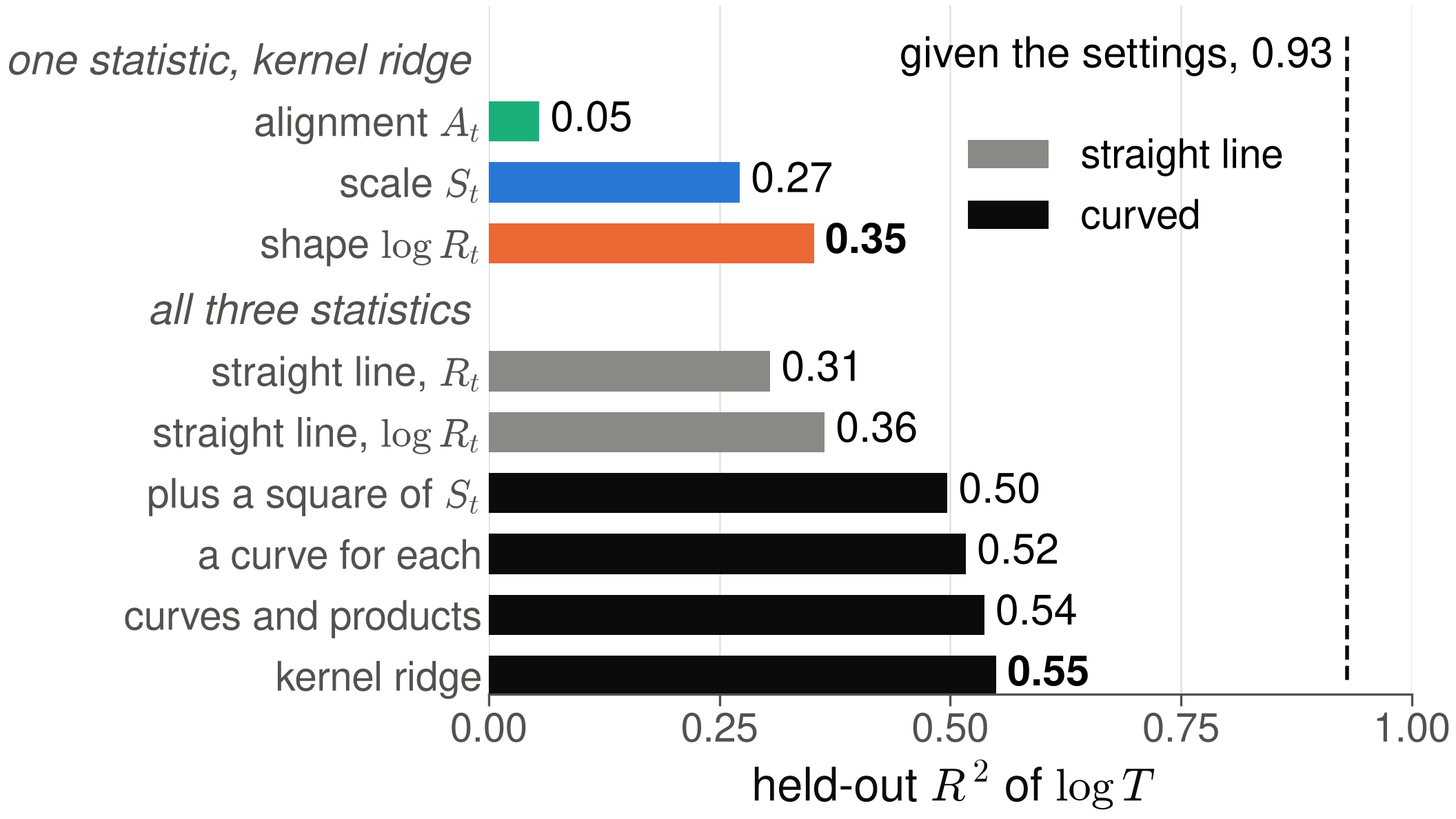
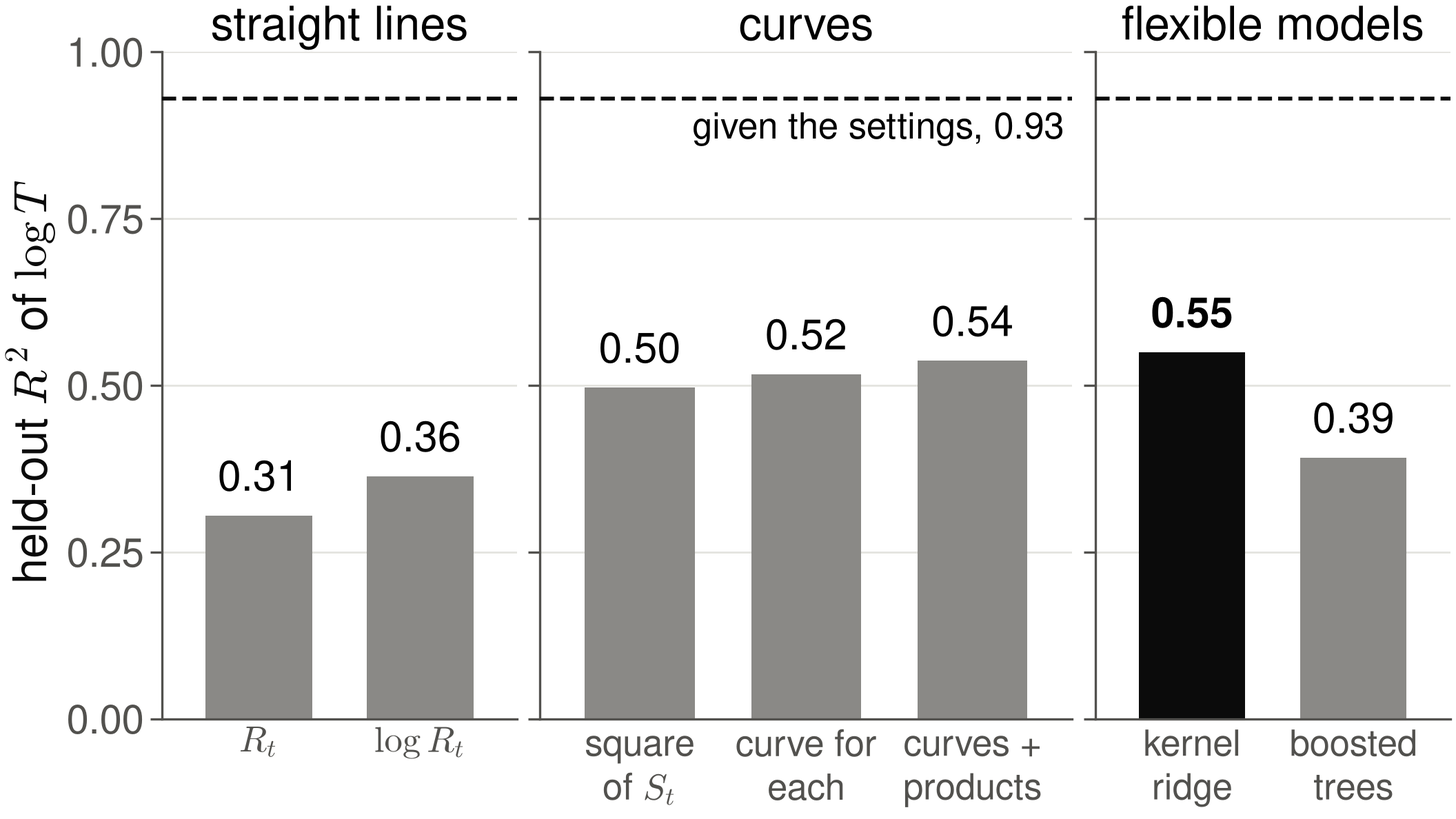
Explain the results slides through analogies and add a slide on curves
Zain's part of the talk, slides 16, 17 and 19 to 21, now opens each result
with a picture before the number. Tier 1 compares a threshold to the boiling
point of water, and the placebo to a stuck thermometer. Slide 17 compares width
to altitude, which moves the boiling point. Tier 3 compares an early forecast
to guessing a marathon time from the first few kilometres, and kernel ridge to
pricing a house from similar houses.

The speaker notes, the text beside each figure and the closing lines of these
slides use the same plain wording. Slide 19 now says what R squared measures.
The points cut from the spoken script stay in the answers under "If asked".

The new slide 21 shows what a curve and a product mean, with a sketch drawn
by make_figures.py. The model comparison figure on slide 20 was redrawn.
script_zain.md runs about 2:07, and script.md was regenerated from the deck.

diff --git a/presentation/make_figures.py b/presentation/make_figures.py
@@ -1,4 +1,4 @@
-"""Slide versions of the report figures E2, E4, E5, E7, E8 and E19, the placebo boxes E3, R_t on two scales, and the Tier 3 models.
+"""Slide versions of the report figures E2, E4, E5, E7, E8 and E19, the placebo boxes E3, R_t on two scales, and the Tier 3 models and curve sketch.
 
 The report figures come from the scripts in report_v2/code. They are drawn for an A4 page, so their
 type is too small on a projector. This script draws each one again for its place in slides.qmd.
@@ -338,15 +338,17 @@ def e10_log_r():
 
 
 
-# The ladder of models of model_fitting/4_nonlinear_exploration.ipynb, Part 3: held-out R^2 of log T
-# with one cell held out at a time, on the same 355 runs as E10. Each model reads all three
-# statistics. The report has no macro for these, so they are copied from the saved output of that
-# notebook (cell 20, three decimals). Its kernel ridge, 0.550, matches E10.json (0.550). The settings
-# line is the trees on alpha, width and weight decay of Part 7 (cell 39).
-LADDER_HELD_OUT_CELLS = {r'straight line, $R_t$': '0.305', r'straight line, $\log R_t$': '0.364',
-                         'plus a square of $S_t$': '0.497', 'a curve for each': '0.517',
-                         'curves and products': '0.537', 'kernel ridge': '0.550'}
-STRAIGHT_LINES = (r'straight line, $R_t$', r'straight line, $\log R_t$')
+# The models of model_fitting/4_nonlinear_exploration.ipynb on the same 355 runs as E10: held-out R^2 of
+# log T with one cell held out at a time, each model reading S_t, log R_t and A_t at t*. The report has
+# no macro for these, so they are copied, to three decimals, from the saved output of the notebook:
+# Part 3 (cell 20) for the ladder and Part 7 (cell 39) for the trees. Its kernel ridge, 0.550,
+# matches E10.json (0.550). The settings line is the trees on alpha, width and weight decay (cell 39).
+# Each panel is one kind of model, as (label, R^2).
+MODEL_PANELS = [
+    ('straight lines', [('$R_t$', '0.305'), (r'$\log R_t$', '0.364')]),
+    ('curves', [('square\nof $S_t$', '0.497'), ('curve for\neach', '0.517'), ('curves +\nproducts', '0.537')]),
+    ('flexible models', [('kernel\nridge', '0.550'), ('boosted\ntrees', '0.392')]),
+]
 SETTINGS_HELD_OUT_CELLS = 0.930
 
 
@@ -357,50 +359,59 @@ def two_places(value):
 
 
 def tier3_models():
-    """Tier 3 model slide: which statistic predicts best, and which model fits best.
+    """Tier 3 models slide: held-out R^2 of each model on all three statistics, one panel per kind.
 
-    The top group is kernel ridge on each statistic alone, from E10.json. The bottom group is the
-    ladder of notebook 4 on all three statistics, with the straight lines in grey and the curved
-    models in black. The dashed line is the trees given the settings.
+    The panels hold the straight lines, the curves and the flexible models of notebook 4. The best
+    model has a black bar and the rest are grey. The dashed line is the trees given the settings.
     """
-    subsets = C.read_json('E10')['subsets']
-    groups = [('one statistic, kernel ridge',
-               [(STAT_NAME['A'], subsets['A']['R2'], C.STAT_COLOUR['A']),
-                (STAT_NAME['S'], subsets['S']['R2'], C.STAT_COLOUR['S']),
-                (r'shape $\log R_t$', subsets['log R']['R2'], C.STAT_COLOUR['R'])]),
-              ('all three statistics',
-               [(name, r2, NEUTRAL if name in STRAIGHT_LINES else C.TEXT)
-                for name, r2 in LADDER_HELD_OUT_CELLS.items()])]
-    fig, ax = plt.subplots(figsize=COLUMN, layout='constrained')
-    y, ticks, labels = -0.5, [], []
-    for title, bars in groups:
-        y += 0.5
-        ax.text(-0.02, y, title, ha='right', va='center', color=C.MUTED, style='italic',
-                transform=ax.get_yaxis_transform())
-        best = max(float(r2) for _, r2, _ in bars)
-        for label, r2, colour in bars:
-            y += 1
-            ax.barh(y, float(r2), height=0.66, color=colour, zorder=2)
-            ax.text(float(r2) + 0.012, y, two_places(r2) if isinstance(r2, str) else f'{r2:.2f}', va='center',
+    best = max(float(r2) for _, bars in MODEL_PANELS for _, r2 in bars)
+    fig, axes = plt.subplots(1, len(MODEL_PANELS), figsize=COLUMN, layout='constrained', sharey=True,
+                             gridspec_kw={'width_ratios': [len(bars) for _, bars in MODEL_PANELS]})
+    for ax, (title, bars) in zip(axes, MODEL_PANELS):
+        for i, (label, r2) in enumerate(bars):
+            ax.bar(i, float(r2), width=0.66, color=C.TEXT if float(r2) == best else NEUTRAL, zorder=2)
+            ax.text(i, float(r2) + 0.02, two_places(r2), ha='center', va='bottom',
                     fontweight='bold' if float(r2) == best else 'normal')
-            ticks.append(y)
-            labels.append(label)
-        y += 0.6
-    ax.vlines(SETTINGS_HELD_OUT_CELLS, -0.4, y - 0.5, color=C.TEXT, ls='--', lw=2, zorder=3)
-    ax.text(SETTINGS_HELD_OUT_CELLS - 0.015, -0.4, f'given the settings, {SETTINGS_HELD_OUT_CELLS:.2f}',
-            ha='right', va='top')
-    ax.barh(-5, 0, color=NEUTRAL, label='straight line')
-    ax.barh(-5, 0, color=C.TEXT, label='curved')
-    ax.legend(loc='upper right', bbox_to_anchor=(0.9, 0.86), frameon=False)
-    ax.set_yticks(ticks, labels)
-    ax.tick_params(axis='y', length=0)
-    ax.set_ylim(y - 0.3, -0.9)
-    ax.set_xlim(0, 1)
-    ax.set_xticks([0, 0.25, 0.5, 0.75, 1])
-    ax.set_xlabel(r'held-out $R^2$ of $\log T$')
-    ax.grid(axis='y', visible=False)
-    ax.spines['left'].set_visible(False)
+        ax.axhline(SETTINGS_HELD_OUT_CELLS, color=C.TEXT, ls='--', lw=2, zorder=3)
+        ax.set_xticks(range(len(bars)), [label for label, _ in bars], fontsize=19)
+        ax.tick_params(axis='x', length=0)
+        ax.set_xlim(-0.6, len(bars) - 0.4)
+        ax.set_title(title, loc='center')
+        ax.grid(axis='x', visible=False)
+    axes[0].set_ylim(0, 1)
+    axes[0].set_yticks([0, 0.25, 0.5, 0.75, 1])
+    axes[0].set_ylabel(r'held-out $R^2$ of $\log T$')
+    axes[1].text(len(MODEL_PANELS[1][1]) - 0.45, SETTINGS_HELD_OUT_CELLS - 0.02,
+                  f'given the settings, {SETTINGS_HELD_OUT_CELLS:.2f}', ha='right', va='top', fontsize=19)
     save(fig, 'tier3_models')
+
+
+def tier3_curve():
+    """Tier 3 formula slide: a sketch of a straight line, a curve and a product, with no data.
+
+    Each panel plots predicted log T against a standardised statistic z. Along a straight line the
+    slope is beta everywhere. Along a curve the slope f'(z) changes with z. With a product term the
+    slope in z_S is beta_S + gamma z_R, so the line for each value of z_R has its own slope. The
+    numbers are made up, so the axes carry no ticks.
+    """
+    z = np.linspace(-1.6, 1.6, 100)
+    fig, axes = plt.subplots(1, 3, figsize=COLUMN, layout='constrained', sharey=True)
+    axes[0].plot(z, 0.2 - 0.55 * z, color=NEUTRAL, lw=4)
+    axes[1].plot(z, 0.2 - 0.55 * z + 0.45 * z ** 2, color=C.TEXT, lw=4)
+    for z_r, colour in ((-1, NEUTRAL), (1, C.STAT_COLOUR['R'])):
+        axes[2].plot(z, 0.2 + (-0.2 - 0.5 * z_r) * z, color=colour, lw=4, label=f'$z_R = {z_r:+d}$')
+    axes[2].legend(loc='upper center', frameon=False, fontsize=19, handlelength=1.2)
+    notes = (r'slope $\beta$', r"slope $f\,'(z)$", r'slope $\beta_S + \gamma z_R$')
+    for ax, title, note, xlabel in zip(axes, ('straight line', 'curve', 'product'), notes, ('$z$', '$z$', '$z_S$')):
+        ax.set_title(title)
+        ax.text(0, -1.5, note, ha='center', va='top', fontsize=21)
+        ax.set_xticks([])
+        ax.set_yticks([])
+        ax.set_xlabel(xlabel)
+        ax.grid(visible=False)
+    axes[0].set_ylabel(r'predicted $\log T$')
+    axes[0].set_ylim(-2.1, 2.6)
+    save(fig, 'tier3_curve')
 
 
 def e19():
@@ -478,6 +489,6 @@ def e19():
 
 
 if __name__ == '__main__':
-    for draw in (e2, e3, e4, e5, e7, e8, e10_log_r, tier3_models, e19):
+    for draw in (e2, e3, e4, e5, e7, e8, e10_log_r, tier3_models, tier3_curve, e19):
         draw()
         print('drew', draw.__name__)

diff --git a/presentation/script.md b/presentation/script.md
@@ -10,7 +10,7 @@ Each slide gives its number in the browser, its budget and the running total. "S
 | 2 | 5 to 9 | 2:15 |
 | 3 | 10 to 14 | 1:50 |
 | 4 | 15 to 18 | 2:00 |
-| 5 | 19 to 25 | 2:50 |
+| 5 | 19 to 26 | 3:15 |
 
 ## Turn 1 (1:20)
 
@@ -249,12 +249,14 @@ Each slide gives its number in the browser, its budget and the running total. "S
 
 **Say**
 
-- If grokking happens when a statistic reaches a threshold, the statistic should take nearly the same value at every run's grokking step.
-- A statistic that barely moves would pass that check too.
-- So we read each run twice, at its own grokking step and at the grokking step of another run, and the second reading is a placebo.
-- A real threshold spreads out at the wrong step, and the SD ratio says by how much.
-- Shape spreads the most, by 1.71, and scale by 1.29, and no shuffle gave either a spread as small as the true one.
-- Alignment spreads by only 1.09, which is close to one.
+- Okay, so first we test whether grokking happens when a statistic hits a fixed value.
+- Think of water, which boils at 100 degrees in any pot.
+- If grokking had a boiling point, the statistic would read the same in every run at the moment that run groks.
+- But a thermometer stuck on one number also reads the same every time.
+- So we also read each run at the step where some other run grokked.
+- If the statistic is a real boiling point, those readings should be much more spread out.
+- Shape spreads out the most, 1.71 times.
+- Scale spreads 1.29 times, and alignment hardly at all.
 
 **Point at**
 
@@ -273,10 +275,12 @@ Each slide gives its number in the browser, its budget and the running total. "S
 
 **Say**
 
-- That tie only holds at a fixed width.
-- Each dot is one run at its grokking step, with width 100 on top and alpha 1 across widths below.
-- Across widths no statistic takes the same value at grokking, and wider networks grok with much less change of shape, yet later.
-- So shape matters more than scale, but shape alone does not set the time.
+- But water only boils at 100 degrees at sea level.
+- Up a mountain it boils at a lower temperature.
+- Width acts like the mountain.
+- Once we change the width, no statistic has the same value at grokking.
+- Wide networks grok with much less change of shape, and yet they grok later.
+- So shape alone does not decide when a network groks.
 
 **If asked**
 
@@ -305,7 +309,7 @@ Each slide gives its number in the browser, its budget and the running total. "S
 - Both logarithms are centred at the middle of the grid, so a and b are the slopes there.
 - Wider networks memorise sooner, so the width effect is not a delay in fitting the training data.
 
-## Turn 5 (2:50)
+## Turn 5 (3:15)
 
 ### Slide 19. Tier 3: shape is the best single predictor, and scale adds what shape lacks (0:40, total 8:05)
 
@@ -313,13 +317,11 @@ Each slide gives its number in the browser, its budget and the running total. "S
 
 **Say**
 
-- Last, which statistic, read early, tells us when a run will grok?
-- We read the statistics at step 2,430, before any run groks, and predict the grokking time on cells the model has never seen.
-- Alignment explains almost nothing, and shape explains the most.
-- Adding scale raises R squared from 0.35 to 0.51, so the clock is mixed.
-- We use the log of R, since with R as it is all three reach only 0.47.
-- In our grid we set the width, alpha and weight decay ourselves, so we know them exactly.
-- In a real model they are not clean measurements, since weight decay is only part of the regularisation, while the kernel can be measured in any network.
+- Can the statistics still forecast when a run will grok?
+- It is like guessing a runner's marathon time from their first few kilometres.
+- We read them at step 2,430, before any run groks, and predict settings the model has never seen.
+- Alignment explains almost nothing.
+- Shape alone explains about a third, and adding scale takes it to a half.
 
 **If asked**
 
@@ -336,31 +338,50 @@ Each slide gives its number in the browser, its budget and the running total. "S
 - The kernel ridge regression uses a Gaussian kernel, and whole cells are held out because the seeds of a cell are close copies.
 - We do not claim that shape and scale interact, because that analysis was cut from the report.
 
-### Slide 20. Tier 3: kernel ridge on all three statistics is the best model (0:35, total 8:40)
+### Slide 20. Tier 3: a curve beats a straight line, and kernel ridge fits best (0:30, total 8:35)
 
-*Message:* a curved model fits best, and a straight line with two bends gets most of the way.
+*Message:* a curve predicts much better than a straight line, and the most flexible models add little on top.
 
 **Say**
 
-- Which model fits best? We climbed a ladder, from straight lines up to kernel ridge.
-- A straight line explains 0.31, and the log of shape lifts it to 0.36.
-- A square of scale lifts it to 0.50, and kernel ridge on all three reaches 0.55, the best we found.
-- So this equation gets most of the way, with two bends: the log of shape and a square of scale.
-- The settings still reach 0.93, but any network's kernel can be measured.
+- A straight line through the three statistics explains 0.36.
+- Letting it bend for scale, with a squared term, jumps it to 0.50.
+- Kernel ridge predicts a run from the runs most like it, like pricing a house from similar houses.
+- It does best, at 0.55.
 
 **Point at**
 
-- Grey bars are straight lines and black bars are curved models, and the dashed line is the trees given the settings.
+- The dashed line is boosted trees given width, alpha and weight decay, which a real network does not report.
 
 **If asked**
 
-- The ladder numbers come from model_fitting/4_nonlinear_exploration.ipynb, Part 3, on the same 355 runs as Tier 3, and its kernel ridge matches the report.
-- A curve for each statistic reaches 0.52, and adding the products of the statistics reaches 0.54, so interactions add little among runs that grok.
-- Each gain above 0.50 is about 0.02, which is close to our noise level.
+- The numbers come from model_fitting/4_nonlinear_exploration.ipynb, Parts 3 and 7, on the same 355 runs as the last slide, and its kernel ridge matches the report.
+- Boosted trees do well on other inputs: 0.74 on the 25 early readings of the statistics and 0.93 on the settings. The notebook reads the history as mostly a record of the settings.
+- On an unseen alpha, trees on the three statistics rank runs at a concordance of 0.70, better than any statistic alone.
+- Each gain above 0.50 is about 0.02, which is close to our noise level, and seed noise sets a ceiling of 0.96.
 - Without shape, kernel ridge falls from 0.55 to 0.23, so shape carries the most information.
-- The settings line is boosted trees on alpha, width and weight decay, and seed noise sets a ceiling of 0.96.
+- Kernel ridge fits $\log T$ minus its mean, with the sum over the training runs $i$, and its penalty and $\gamma$ are chosen by cross-validation over whole cells.
+- The trees are XGBoost on squared error, with depth 1 to 4 chosen on held-out training cells.
 
-### Slide 21. Tier 4: on MNIST, weight decay alone sets the time (0:35, total 9:15)
+### Slide 21. A curve changes the slope, and a product links two statistics (0:30, total 9:05)
+
+*Message:* a curve lets the slope of a statistic change along the way, a product lets one statistic set the slope of another, and the best simple formula is a straight line plus a square of scale.
+
+**Say**
+
+- A straight line says each step up in a statistic always moves the time by the same amount.
+- A curve lets that amount change, like a road that is steep and then flattens.
+- A product means how much scale matters depends on shape.
+- In our data that adds very little.
+
+**If asked**
+
+- The spline has 5 knots and degree 3, which gives 7 basis functions per statistic, and the weights $c_j$ are fitted by ridge regression.
+- The square is the simplest curve, since its slope $\beta + 2\beta' z$ changes in a straight line.
+- Shape enters on a log scale, so the straight line in $z_R$ is already a curve in $R_t$.
+- The betas are fitted by least squares on the training cells of each fold, and the notebook did not save them, so we quote only the form and its score.
+
+### Slide 22. Tier 4: on MNIST, weight decay alone sets the time (0:35, total 9:40)
 
 *Message:* on a second task, weight decay alone sets the time through the weight norm, and shape plays no part.
 
@@ -382,13 +403,13 @@ Each slide gives its number in the browser, its budget and the running total. "S
 - We did not repeat Tier 3, because with a residual of 0.03 the time is a function of the settings alone.
 - The placebo test cannot separate the statistics here, because each is a function of the step and the grokking times span more than a decade.
 
-### Act 22. What we found (0:05, total 9:20)
+### Act 23. What we found (0:05, total 9:45)
 
 **Say**
 
 - So what sets the grokking time?
 
-### Slide 23. Limitations (0:20, total 9:40)
+### Slide 24. Limitations (0:20, total 10:05)
 
 *Message:* the claims hold for this task and parameterisation, on the runs that grok.
 
@@ -406,7 +427,7 @@ Each slide gives its number in the browser, its budget and the running total. "S
 - MNIST shows which clock sets the time once a delay exists, and not whether shape can cause one.
 - The alignment uses the kernel of the summed logits, and the kernel of all p logits may behave differently.
 
-### Slide 24. Grokking runs on a mixed clock, and shape is its best single reading (0:30, total 10:10)
+### Slide 25. Grokking runs on a mixed clock, and shape is its best single reading (0:30, total 10:35)
 
 *Message:* grokking runs on a mixed clock, in which shape is the most informative statistic and scale also matters.
 
@@ -422,7 +443,7 @@ Each slide gives its number in the browser, its budget and the running total. "S
 - What is new is the split into scale and shape, the placebo test, the crossed grid on two tasks, and prediction from quantities that any network exposes.
 - A next step is to test whether the early rate of shape change falls as one over the width.
 
-### Slide 25. Thank you (0:05, total 10:15)
+### Slide 26. Thank you (0:05, total 10:40)
 
 **Say**
 

diff --git a/presentation/script_zain.md b/presentation/script_zain.md
@@ -1,34 +1,41 @@
 # Zain's script
 
-This is the script for slides 16, 17, 19 and 20 of the seminar: Tier 1, its limits, and Tier 3 with its models. Each section is one paragraph to read aloud. Together they run to just under two minutes at the deck's pace of 150 words a minute. The numbers on slides 16 to 19 come from the report's `numbers.tex`, through `_variables.yml`. The ladder of models on slide 20 comes from `model_fitting/4_nonlinear_exploration.ipynb`, Part 3, on the same 355 runs, and its kernel ridge matches the report.
+This is the script for slides 16, 17, 19, 20 and 21 of the seminar: Tier 1, its limits, and Tier 3 with its models, and what a curve and a product are. Each section is one paragraph to read aloud. Together they run to just over two minutes at the deck's pace of 150 words a minute. The numbers on slides 16 to 19 come from the report's `numbers.tex`, through `_variables.yml`. The models on slides 20 and 21 come from `model_fitting/4_nonlinear_exploration.ipynb`, Parts 3 and 7, on the same 355 runs, and its kernel ridge matches the report.
 
 ## The script
 
-### Slide 16. Tier 1: is there a threshold? (about 0:34)
+### Slide 16. Tier 1: is there a threshold? (about 0:40)
 
-Our first test asks whether grokking happens when a statistic hits a fixed value. If it did, that statistic would read about the same at every run's grokking step. A statistic that barely moves would pass that check too, so we read each run twice: at its own grokking step, and at another run's step as a placebo. A real threshold spreads out at the wrong step. Shape spreads the most, 1.71 times, scale 1.29 times, and alignment only 1.09, which is close to one.
+Okay, so first we test whether grokking happens when a statistic hits a fixed value. Think of water, which boils at 100 degrees in any pot. If grokking had a boiling point, the statistic would read the same in every run at the moment that run groks. But a thermometer stuck on one number also reads the same every time. So we also read each run at the step where some other run grokked. If the statistic is a real boiling point, those readings should be much more spread out. Shape spreads out the most, 1.71 times. Scale spreads 1.29 times, and alignment hardly at all.
 
-### Slide 17. No statistic is a fixed threshold (about 0:18)
+### Slide 17. No statistic is a fixed threshold (about 0:20)
 
-That tie only holds at a fixed width. Across widths, no statistic takes the same value at grokking. Wider networks grok with much less change of shape, and yet they grok later. So shape matters more than scale, but shape alone does not set the time.
+But water only boils at 100 degrees at sea level. Up a mountain it boils at a lower temperature. Width acts like the mountain. Once we change the width, no statistic has the same value at grokking. Wide networks grok with much less change of shape, and yet they grok later. So shape alone does not decide when a network groks.
 
-### Slide 19. Tier 3: which statistic predicts best? (about 0:28)
+### Slide 19. Tier 3: which statistic predicts best? (about 0:25)
 
-Next, can the kernel, read early, tell us when a run will grok? We read scale, shape and alignment at step 2,430, before any run groks, and predict the grokking time on cells the model has never seen. Alignment explains almost nothing. Shape alone explains the most, at 0.35, and adding scale lifts it to 0.51. So shape is the best single reading, but it needs scale beside it.
+Can the statistics still forecast when a run will grok? It is like guessing a runner's marathon time from their first few kilometres. We read them at step 2,430, before any run groks, and predict settings the model has never seen. Alignment explains almost nothing. Shape alone explains about a third, and adding scale takes it to a half.
 
-### Slide 20. Tier 3: which model fits best? (about 0:36)
+### Slide 20. Which model fits best? (about 0:20)
 
-So which model fits best? We climbed a ladder, from straight lines up to kernel ridge. A straight line in the three statistics explains 0.31, and taking the log of shape lifts it to 0.36. Adding a square of scale jumps to 0.50, and kernel ridge on all three reaches 0.55, the best we found. So this equation gets most of the way, with two bends: the log of shape and a square of scale. The settings still reach 0.93, while the kernel can be measured in any network.
+A straight line through the three statistics explains 0.36. Letting it bend for scale, with a squared term, jumps it to 0.50. Kernel ridge predicts a run from the runs most like it, like pricing a house from similar houses. It does best, at 0.55.
+
+### Slide 21. What a curve and a product are (about 0:20)
+
+A straight line says each step up in a statistic always moves the time by the same amount. A curve lets that amount change, like a road that is steep and then flattens. A product means how much scale matters depends on shape. In our data that adds very little.
 
 ## Questions
 
 These are not part of the timed talk.
 
+- **Didn't boosted trees do well?** It depends on what they read. On the three statistics at step 2,430 they reach only 0.39, below kernel ridge at 0.55. On the 25 early readings of the statistics they reach 0.74, and on the settings 0.93. The history mostly records the settings. On an unseen alpha, trees on the three statistics rank runs at a concordance of 0.70, better than any statistic alone.
+- **What is the spline?** Each statistic gets 7 cubic B-spline basis functions on 5 knots, and ridge regression fits their weights. The square is the simplest curve, since its slope, beta plus 2 beta prime z, changes in a straight line.
+- **What are the betas?** Each beta is fitted by least squares on the training cells, and each z is a statistic rescaled to mean 0 and spread 1. The notebook did not save the fitted betas, so we quote only the form and its score.
 - **Why the log of R?** We fitted R as it is and log R in straight lines and in kernel ridge, and log R predicted better on held-out cells. Almost half the runs have R below 0.01, and the log spreads them out.
 - **Did you try the log of S?** No. S entered on its own scale, and a square term and splines let its curve bend.
 - **Do the statistics interact?** Only a little among runs that grok. A curve for each statistic reaches 0.52, and adding their products reaches 0.54. Each gain above 0.50 is about 0.02, which is close to our noise level.
 - **Which statistic matters most?** Shape. Without it, kernel ridge falls from 0.55 to 0.23.
 - **Why hold out whole cells?** The five seeds of a cell are close copies. Seed noise sets a ceiling of 0.96 on R squared, and the statistics say nothing about which seed of a cell groks first.
-- **Does the kernel beat weight decay?** No. On an unseen alpha, trees on width and weight decay reach a concordance of 0.79, and weight decay alone reaches 0.72. Trees on the three statistics reach 0.70.
+- **Does the kernel beat weight decay?** No. On an unseen alpha, trees on width and weight decay reach a concordance of 0.79, and weight decay alone reaches 0.72.
 - **What is kernel ridge regression?** It predicts a run's time from the runs that look most like it, with a Gaussian kernel that sets what "look like" means. That lets it follow curves and interactions without us choosing their form.
 - **What are the p values in Tier 1?** Below 0.0005 for shape and for scale, and 0.029 for alignment, over 2,000 shuffles.
